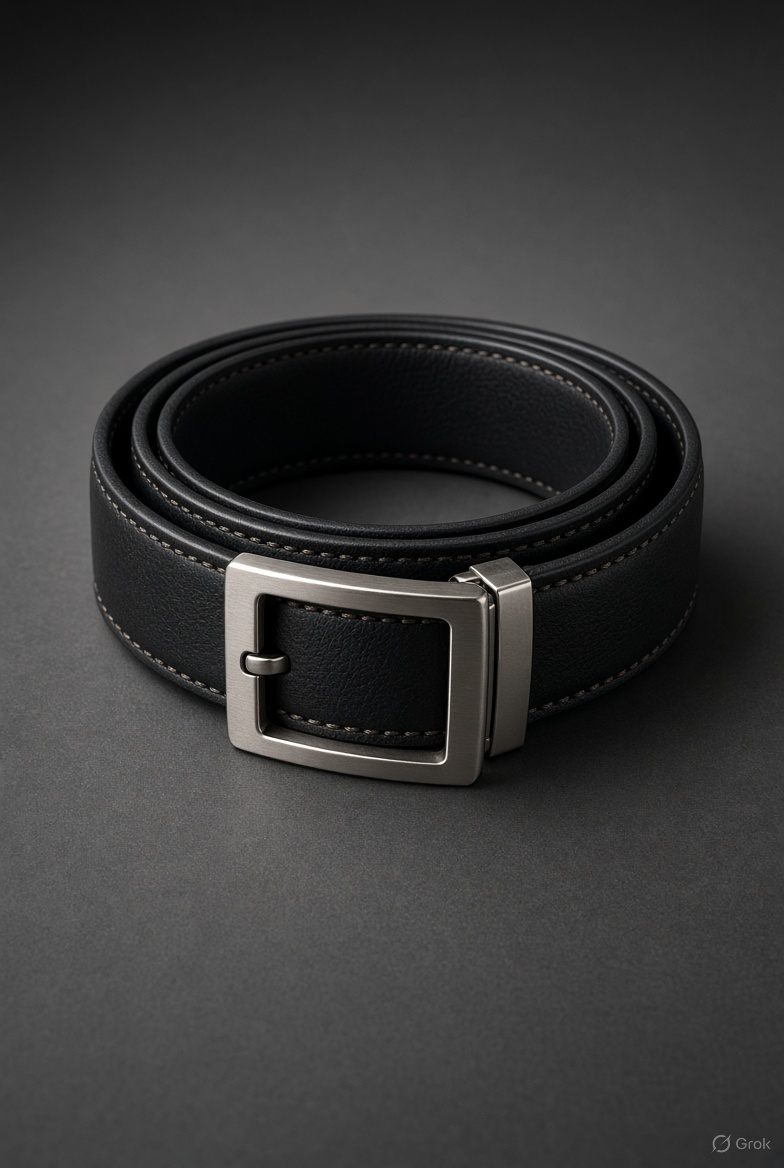
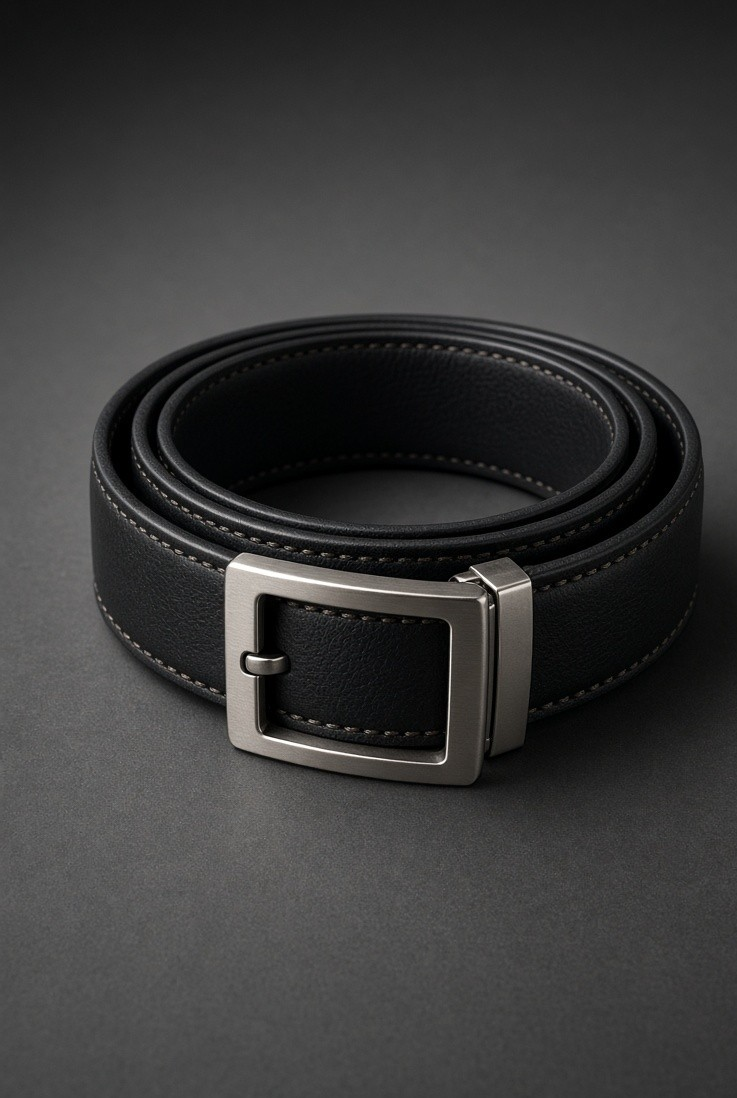
Crop belt watermark, add GitHub Pages deploy, base-path-aware assets
- belt.jpg: same 6% right/bottom crop as jacket and shirt; original kept
  in git-ignored originals/images/
- next.config: GITHUB_PAGES=true switches on static export, basePath
  (/Ansh-cloth- by default), trailing slashes and unoptimized images;
  dev and Vercel builds are unchanged
- lib/asset.ts prefixes /public URLs (models, images, HDRI) with the base
  path, since Next does not rewrite plain string URLs
- .github/workflows/deploy.yml builds the export and deploys to Pages
- README: Deploy section

Claude-Session: https://claude.ai/code/session_015yLqhUgLFCXhcnwqTbfv2p

Changed region(s): [[0.0936, 0.2477, 1.0, 0.7432], [0.905, 0.9599, 0.9362, 0.9909]]

diff --git a/next.config.ts b/next.config.ts
@@ -1,15 +1,32 @@
 import type { NextConfig } from "next";
 
+/**
+ * GITHUB_PAGES=true builds a static export served from /<repo-name>/.
+ * Without it (dev, Vercel) this is a normal Next.js app at the domain root.
+ */
+const isGitHubPages = process.env.GITHUB_PAGES === "true";
+const basePath = isGitHubPages ? (process.env.PAGES_BASE_PATH ?? "/Ansh-cloth-") : "";
+
 const nextConfig: NextConfig = {
   reactStrictMode: true,
-  async headers() {
-    return [
-      {
-        source: "/models/:path*",
-        headers: [{ key: "Cache-Control", value: "public, max-age=31536000, immutable" }],
-      },
-    ];
-  },
+  env: { NEXT_PUBLIC_BASE_PATH: basePath },
+  ...(isGitHubPages
+    ? {
+        output: "export",
+        basePath,
+        trailingSlash: true,
+        images: { unoptimized: true },
+      }
+    : {
+        async headers() {
+          return [
+            {
+              source: "/models/:path*",
+              headers: [{ key: "Cache-Control", value: "public, max-age=31536000, immutable" }],
+            },
+          ];
+        },
+      }),
 };
 
 export default nextConfig;

diff --git a/components/Scene.tsx b/components/Scene.tsx
@@ -13,6 +13,7 @@ import {
   useTexture,
 } from "@react-three/drei";
 import type { Group, Points as ThreePoints } from "three";
+import { asset } from "@/lib/asset";
 import type { ResolvedProduct } from "@/lib/products";
 import ProductStage, { useStageLayout } from "./ProductStage";
 import ProductModel from "./ProductModel";
@@ -117,7 +118,7 @@ export default function Scene({ products }: { products: ResolvedProduct[] }) {
       <Suspense fallback={null}>
         <SoftBoundary>
           {/* drei's "studio" preset, self-hosted (CC0, @pmndrs/assets) instead of fetched from a CDN at runtime */}
-          <Environment files="/hdri/studio.exr" environmentIntensity={0.7} />
+          <Environment files={asset("/hdri/studio.exr")} environmentIntensity={0.7} />
         </SoftBoundary>
       </Suspense>
 

diff --git a/app/page.tsx b/app/page.tsx
@@ -1,12 +1,15 @@
 import { existsSync } from "node:fs";
 import path from "node:path";
 import Experience from "@/components/Experience";
+import { asset } from "@/lib/asset";
 import { products, type ResolvedProduct } from "@/lib/products";
 
 // Resolve at build time which products have a GLB; the rest fall back to image cards.
 const resolved: ResolvedProduct[] = products.map((p) => ({
   ...p,
   hasModel: existsSync(path.join(process.cwd(), "public", p.modelPath)),
+  modelPath: asset(p.modelPath),
+  imagePath: asset(p.imagePath),
 }));
 
 export default function Home() {

diff --git a/lib/asset.ts b/lib/asset.ts
@@ -1,0 +1,8 @@
+/**
+ * Base path the site is served from: "" on Vercel / dev, "/Ansh-cloth-" on
+ * GitHub Pages. Next.js prefixes its own routes and chunks, but not plain
+ * string URLs for files in /public, so those go through asset().
+ */
+export const BASE_PATH = process.env.NEXT_PUBLIC_BASE_PATH ?? "";
+
+export const asset = (path: string) => `${BASE_PATH}${path}`;

diff --git a/README.md b/README.md
@@ -10,6 +10,18 @@ npm run dev     # http://localhost:3000
 npm run build
 ```
 
+## Deploy
+
+**Vercel:** import the repo with default settings (framework is detected as Next.js; build `npm run build`).
+
+**GitHub Pages:** `.github/workflows/deploy.yml` builds a static export on every push to `main` and deploys it.
+One-time setup: repo **Settings → Pages → Source: GitHub Actions**. The site is served at
+https://creatordecode4-cmyk.github.io/Ansh-cloth-/
+
+The export and `/Ansh-cloth-` base path are switched on only when `GITHUB_PAGES=true`, so `npm run dev` and Vercel are unaffected.
+To try the Pages build locally: `GITHUB_PAGES=true npm run build` (output in `out/`).
+Any new file URL under `public/` used in code should go through `asset()` from `lib/asset.ts` so it gets the base path.
+
 ## Products
 
 All product data lives in `lib/products.ts` (name, tagline, price, `modelPath`, `imagePath`, glow colours).
@@ -59,6 +71,6 @@ The order of the array is the scroll order. Each entry looks like this:
 ## Assets
 
 - `public/models/*.glb` — optimised, plain GLB (no Draco), loaded with `useGLTF`.
-- `public/images/*.jpg` — fallback product photos (jacket and shirt cropped to remove a watermark; uncropped copies in `originals/images/`).
+- `public/images/*.jpg` — fallback product photos (jacket, shirt and belt cropped to remove a watermark; uncropped copies in `originals/images/`).
 - `public/hdri/studio.exr` — drei's "studio" environment (CC0, from `@pmndrs/assets`), self-hosted.
 - `originals/` — uncompressed source files; git-ignored, never commit.
